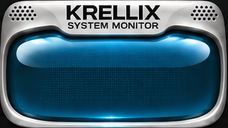
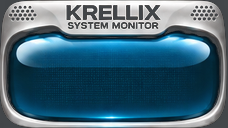
Fit MMD3 border artwork and optional chassis end caps

diff --git a/src/krellix/MainWindow.cpp b/src/krellix/MainWindow.cpp
@@ -34,6 +34,7 @@
 #include <QMouseEvent>
 #include <QPaintEvent>
 #include <QPainter>
+#include <QRegion>
 #include <QSettings>
 #include <QSet>
 #include <QShortcut>
@@ -910,8 +911,43 @@ void MainWindow::paintEvent(QPaintEvent *)
     const int leftW   = leftPix.isNull()   ? 0 : leftPix.width();
     const int rightW  = rightPix.isNull()  ? 0 : rightPix.width();
 
-    p.fillRect(rect(), m_theme->color(QStringLiteral("panel_bg"),
-                                      QColor(0, 0, 0)));
+    const auto topCap = m_theme->pixmap(QStringLiteral("window_bg_cap_top"));
+    const auto bottomCap = m_theme->pixmap(QStringLiteral("window_bg_cap_bottom"));
+    const auto capHeight = [&](const QPixmap &cap) {
+        return !cap.isNull() && leftW + rightW > 0 && leftW + rightW <= width() && cap.width() >= leftW + rightW
+            ? qMin(qRound(cap.deviceIndependentSize().height()), height() / 2) : 0;
+    };
+    const int topCapH = capHeight(topCap), bottomCapH = capHeight(bottomCap);
+    const QColor backing = m_theme->color(QStringLiteral("panel_bg"), QColor(0, 0, 0));
+    QRegion backingRegion;
+    if (topCapH || bottomCapH) {
+        // The caps replace only the ends of the side strips, not the header/footer.
+        backingRegion = QRegion(rect());
+        const auto drawCaps = [&](const QPixmap &cap, int y, int h) {
+            if (!h) return;
+            if (leftW) {
+                const QRect left(0, y, leftW, h);
+                backingRegion -= left;
+                p.drawPixmap(left, cap, QRect(0, 0, leftW, cap.height()));
+            }
+            if (rightW) {
+                const QRect right(width() - rightW, y, rightW, h);
+                backingRegion -= right;
+                p.drawPixmap(right, cap, QRect(cap.width() - rightW, 0, rightW, cap.height()));
+            }
+        };
+        p.save();
+        p.setCompositionMode(QPainter::CompositionMode_Source);
+        drawCaps(topCap, 0, topCapH);
+        drawCaps(bottomCap, height() - bottomCapH, bottomCapH);
+        p.restore();
+        p.save();
+        p.setClipRegion(backingRegion, Qt::IntersectClip);
+        p.fillRect(rect(), backing);
+        p.restore();
+    } else {
+        p.fillRect(rect(), backing);
+    }
     const auto chassis = m_theme->pixmap(QStringLiteral("window_bg"));
     if (!chassis.isNull()) {
         const int stackTop = m_topStrip && !m_topStrip->isHidden()
@@ -920,6 +956,7 @@ void MainWindow::paintEvent(QPaintEvent *)
         if (!stack.isEmpty()) {
             const qreal sourceWidth = chassis.deviceIndependentSize().width();
             p.save();
+            if (topCapH || bottomCapH) p.setClipRegion(backingRegion, Qt::IntersectClip);
             p.translate(stack.topLeft());
             p.scale(stack.width() / sourceWidth, 1);
             p.drawTiledPixmap(QRectF(0, 0, sourceWidth, stack.height()), chassis);
@@ -930,8 +967,14 @@ void MainWindow::paintEvent(QPaintEvent *)
     if (!sharedCasing.isEmpty())
         Panel::paintCasing(p, *m_theme, QStringLiteral("panel_bg_host_clock"), this, sharedCasing);
 
-    if (!topPix.isNull())
+    if (!topPix.isNull()) {
+        if (topCapH) {
+            p.save();
+            p.setClipRegion(backingRegion, Qt::IntersectClip);
+        }
         p.drawTiledPixmap(QRect(0, 0, width(), topH), topPix);
+        if (topCapH) p.restore();
+    }
     const auto animate = [this](QPixmap &staticImage, const QString &target, const QRect &rect) {
         const auto frame = m_theme->animationFrame(target, this, rect, staticImage.size());
         if (!frame.isNull()) staticImage = frame;
@@ -942,24 +985,29 @@ void MainWindow::paintEvent(QPaintEvent *)
             ? QRect(leftW, height() - bottomH, width() - leftW - rightW, bottomH)
             : QRect(0, height() - bottomH, width(), bottomH);
         animate(bottomPix, QStringLiteral("images.frame_bottom"), footer);
+        if (bottomCapH) {
+            p.save();
+            p.setClipRegion(backingRegion, Qt::IntersectClip);
+        }
         if (scaledFooter)
             p.drawPixmap(footer, bottomPix);
         else
             p.drawTiledPixmap(footer, bottomPix);
+        if (bottomCapH) p.restore();
     }
 
-    const int sideTop    = topH;
-    const int sideBottom = scaledFooter ? height() : height() - bottomH;
+    const int sideTop    = qMax(topH, topCapH);
+    const int sideBottom = qMin(scaledFooter ? height() : height() - bottomH, height() - bottomCapH);
     if (sideBottom > sideTop) {
         if (!leftPix.isNull()) {
             const QRect left(0, sideTop, leftW, sideBottom - sideTop);
             animate(leftPix, QStringLiteral("images.frame_left"), left);
-            p.drawTiledPixmap(left, leftPix);
+            p.drawTiledPixmap(left, leftPix, QPoint(0, sideTop - topH));
         }
         if (!rightPix.isNull()) {
             const QRect right(width() - rightW, sideTop, rightW, sideBottom - sideTop);
             animate(rightPix, QStringLiteral("images.frame_right"), right);
-            p.drawTiledPixmap(right, rightPix);
+            p.drawTiledPixmap(right, rightPix, QPoint(0, sideTop - topH));
         }
     }
 }

diff --git a/tests/settings-lifecycle.cpp b/tests/settings-lifecycle.cpp
@@ -287,7 +287,8 @@ static void verifyChassisBackground()
     QTemporaryDir fixture;
     const auto previous = QDir::currentPath();
     if (!fixture.isValid() || !QDir::setCurrent(fixture.path())) qFatal("Could not isolate chassis test");
-    for (const auto &id : {QStringLiteral("chassis-base"), QStringLiteral("chassis-textured")}) {
+    for (const auto &id : {QStringLiteral("chassis-base"), QStringLiteral("chassis-textured"),
+                           QStringLiteral("chassis-capped")}) {
         const auto path = QStringLiteral("themes/") + id + QLatin1Char('/');
         if (!QDir().mkpath(path)) qFatal("Could not create chassis theme");
         const auto save = [&](const QString &name, QSize size, QColor color) {
@@ -302,10 +303,17 @@ static void verifyChassisBackground()
         pattern.fill(Qt::red);
         for (int x = 0; x < pattern.width(); ++x) pattern.setPixelColor(x, 1, Qt::blue);
         if (!pattern.save(path + QStringLiteral("pattern.png"))) qFatal("Could not save chassis backing");
+        QImage cap(20, 6, QImage::Format_ARGB32);
+        cap.fill(Qt::magenta);
+        for (const auto &pt : {QPoint(0, 0), QPoint(19, 0), QPoint(0, 5), QPoint(19, 5)})
+            cap.setPixelColor(pt, Qt::transparent);
+        if (!cap.save(path + QStringLiteral("cap.png"))) qFatal("Could not save chassis cap");
         const QByteArray data = R"({"metrics":{"top_strip_height":14,"panel_border":0},
           "colors":{"panel_bg":"#101010"},"surfaces":{"panel_bg_top":{"image":"header.png","slice":0}},
           "images":{"frame_left":"spacer.png","frame_right":"spacer.png","frame_bottom":"footer.png")"
-          + QByteArray(id == QStringLiteral("chassis-textured") ? R"(,"window_bg":"pattern.png")" : "") + "}}";
+          + QByteArray(id != QStringLiteral("chassis-base") ? R"(,"window_bg":"pattern.png")" : "")
+          + QByteArray(id == QStringLiteral("chassis-capped")
+              ? R"(,"window_bg_cap_top":"cap.png","window_bg_cap_bottom":"cap.png")" : "") + "}}";
         QFile json(path + QStringLiteral("theme.json"));
         if (!json.open(QIODevice::WriteOnly) || json.write(data) != data.size())
             qFatal("Could not write chassis theme");
@@ -344,6 +352,20 @@ static void verifyChassisBackground()
                qPrintable(sample(after, window.width() - 2, 18).name()),
                qPrintable(sample(after, 15, 3).name()), qPrintable(sample(after, 15, window.height() - 2).name()),
                qPrintable(sample(after, content.left() + 1, content.top() + 1).name()));
+    if (!theme.load(QStringLiteral("chassis-capped"))) qFatal("Could not load capped chassis");
+    QApplication::processEvents();
+    const auto capped = window.grab().toImage();
+    if (capped.size() != after.size() || margins != window.layout()->contentsMargins()
+        || content != window.layout()->itemAt(window.layout()->count() - 1)->geometry()
+        || sample(capped, 0, 0).alpha() != 0 || sample(capped, window.width() - 1, window.height() - 1).alpha() != 0
+        || sample(capped, 2, 2) != Qt::magenta || sample(capped, window.width() - 2, window.height() - 2) != Qt::magenta
+        || sample(capped, 15, 3) != Qt::yellow || sample(capped, 15, window.height() - 2) != Qt::cyan
+        || sample(capped, 2, 18) != sample(after, 2, 18))
+        qFatal("Chassis cap mismatch: alphas=%d/%d cap=%s/%s header=%s footer=%s backdrop=%s",
+               sample(capped, 0, 0).alpha(), sample(capped, window.width() - 1, window.height() - 1).alpha(),
+               qPrintable(sample(capped, 2, 2).name()), qPrintable(sample(capped, window.width() - 2, window.height() - 2).name()),
+               qPrintable(sample(capped, 15, 3).name()), qPrintable(sample(capped, 15, window.height() - 2).name()),
+               qPrintable(sample(capped, 2, 18).name()));
     if (!QDir::setCurrent(previous)) qFatal("Could not restore working directory");
 }
 

diff --git a/docs/theme-spec.md b/docs/theme-spec.md
@@ -176,6 +176,7 @@ Recognized keys:
 | `panel_icon_*` | Optional icon beside a panel title, e.g. `panel_icon_cpu` for `panel_bg_cpu` |
 | `frame_bottom` | Bottom frame strip; use `{"image":"assets/footer.png","mode":"stretch"}` for a single proportional footer between the side frames |
 | `window_bg` | Optional chassis backing. Scales across the existing window width and tiles vertically behind the monitor stack, between the header and footer. It adds no margins and is layered below the frame strips, panels and shared Host/Clock casing. Omit it for the existing solid backing. |
+| `window_bg_cap_top`, `window_bg_cap_bottom` | Optional transparent end caps for the existing side strips. The left and right bands of each PNG must match the frame strip widths in source pixels. Only those bands are painted: rounded alpha replaces the corresponding rail ends without resizing the window or the header/footer. A missing cap leaves that end unchanged. |
 
 Image-themed widgets gracefully fall back to color-only rendering for any
 key that isn't supplied — so a theme can mix images and colors freely.
